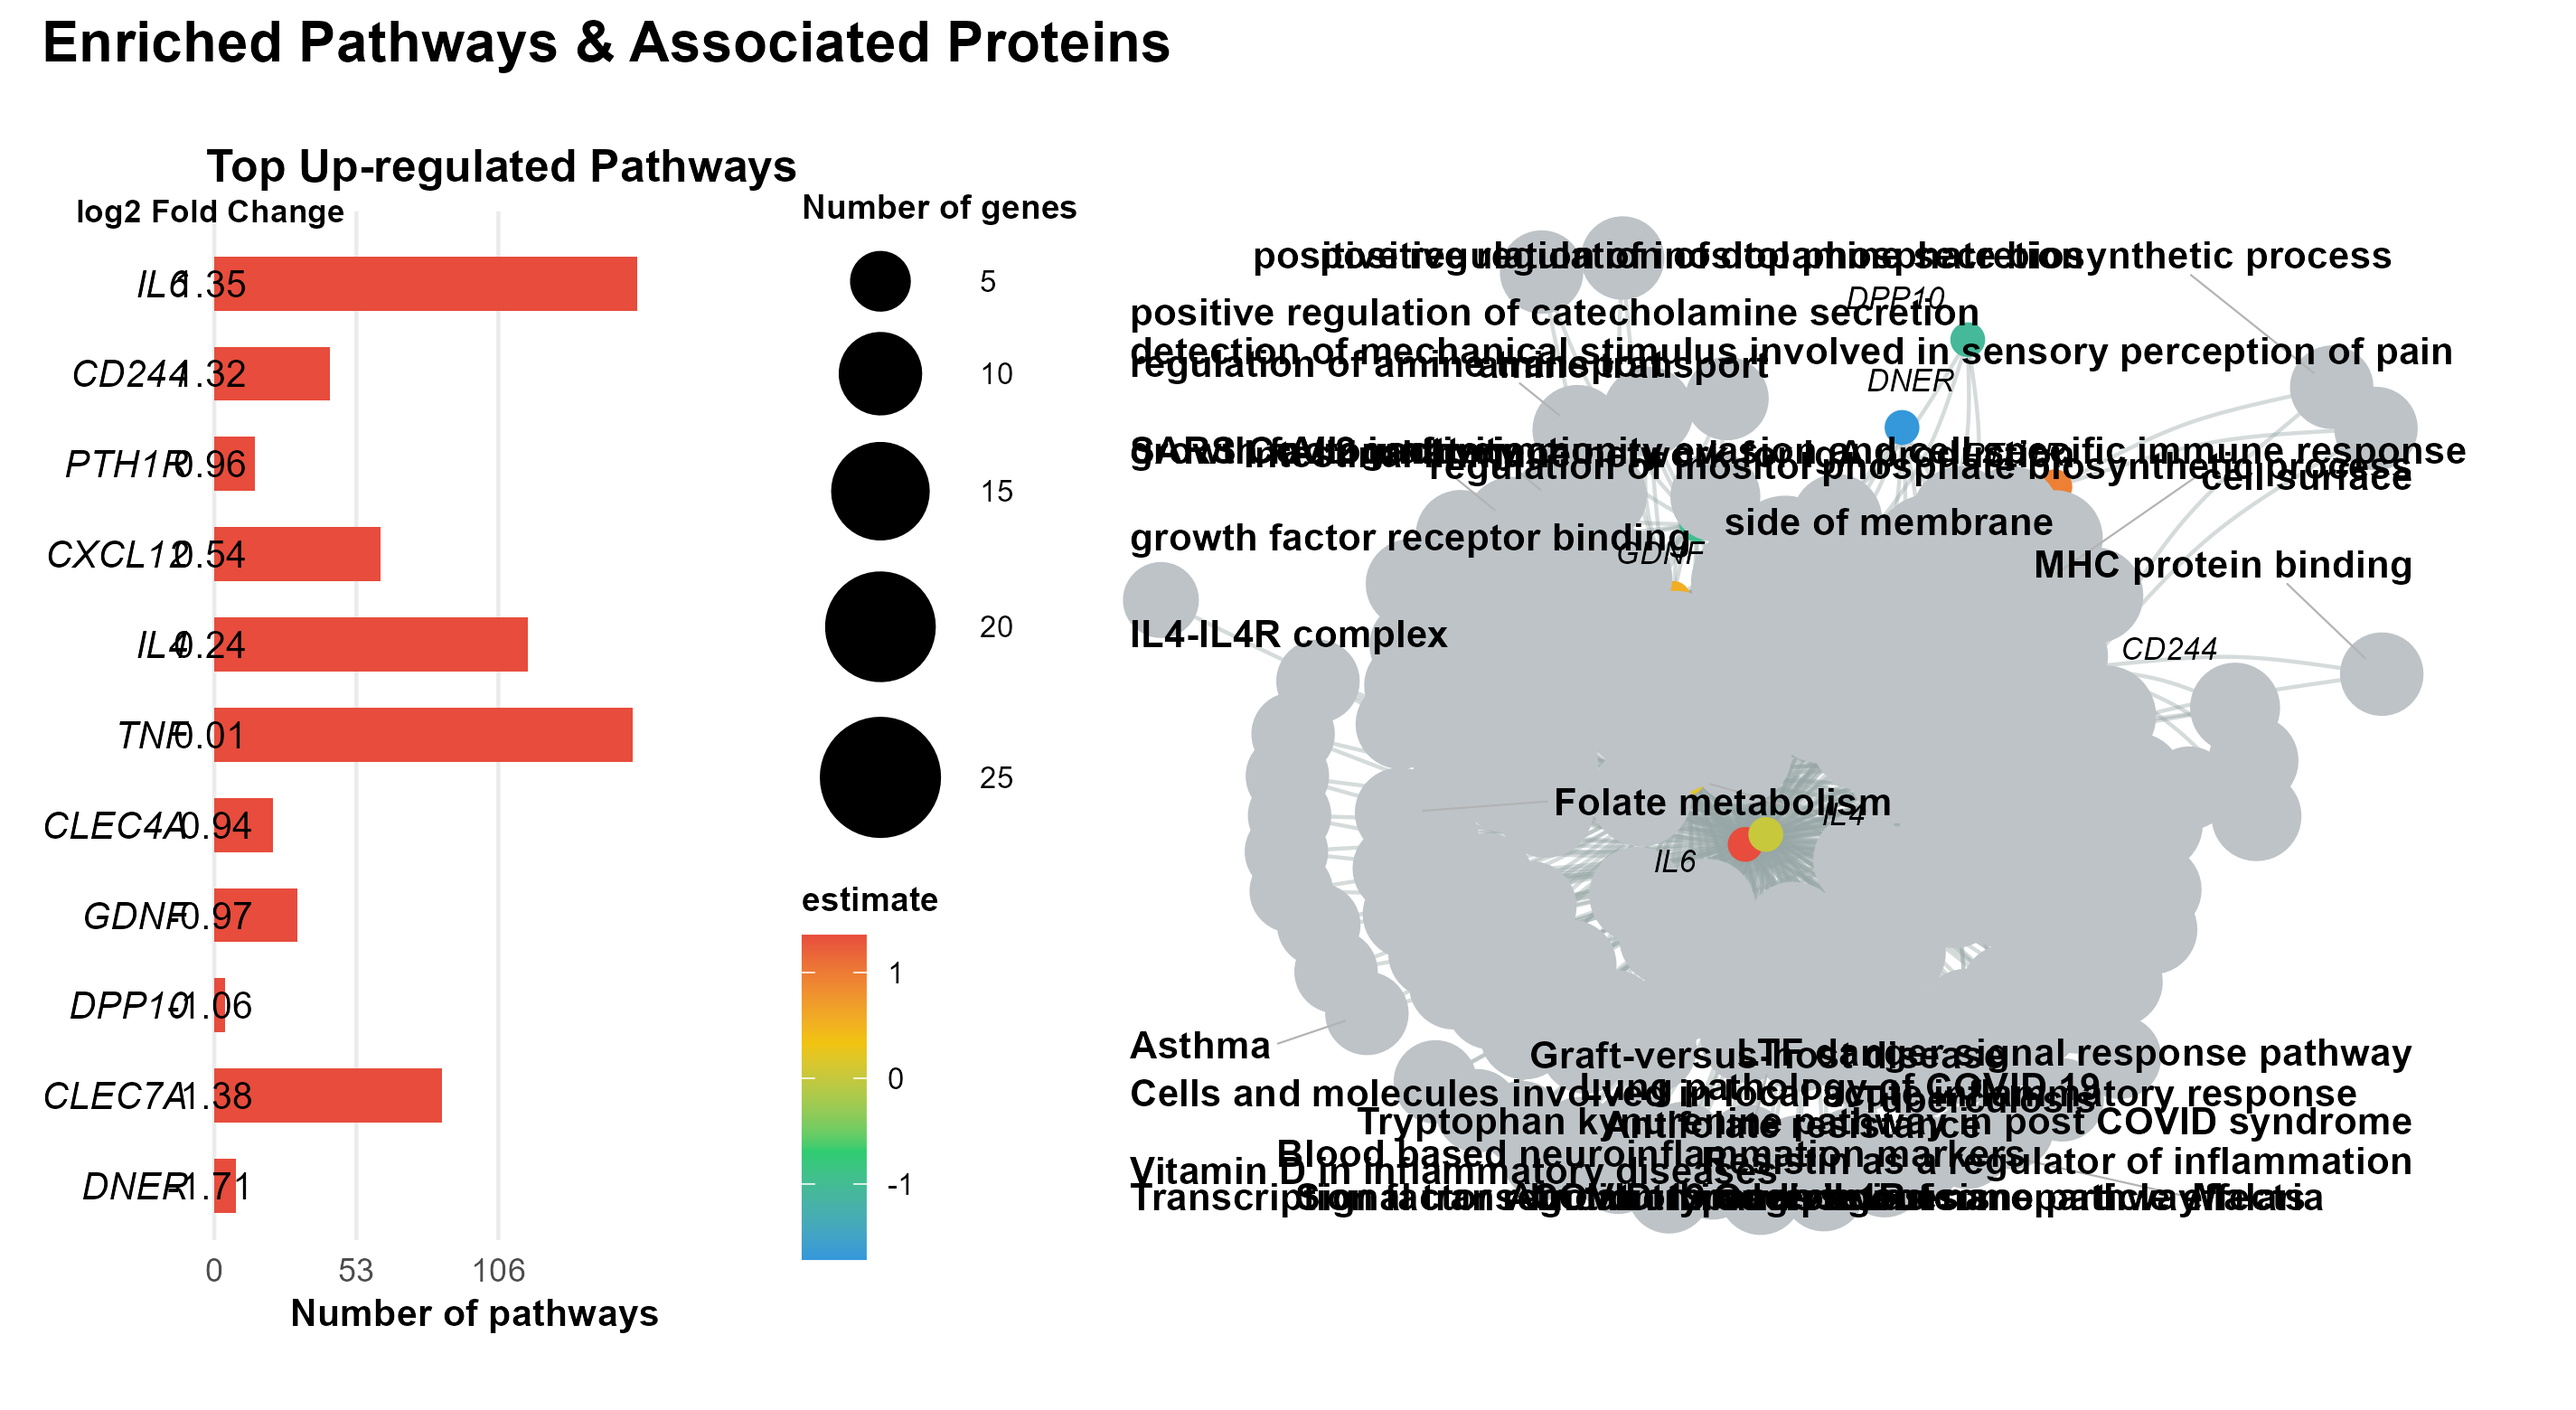
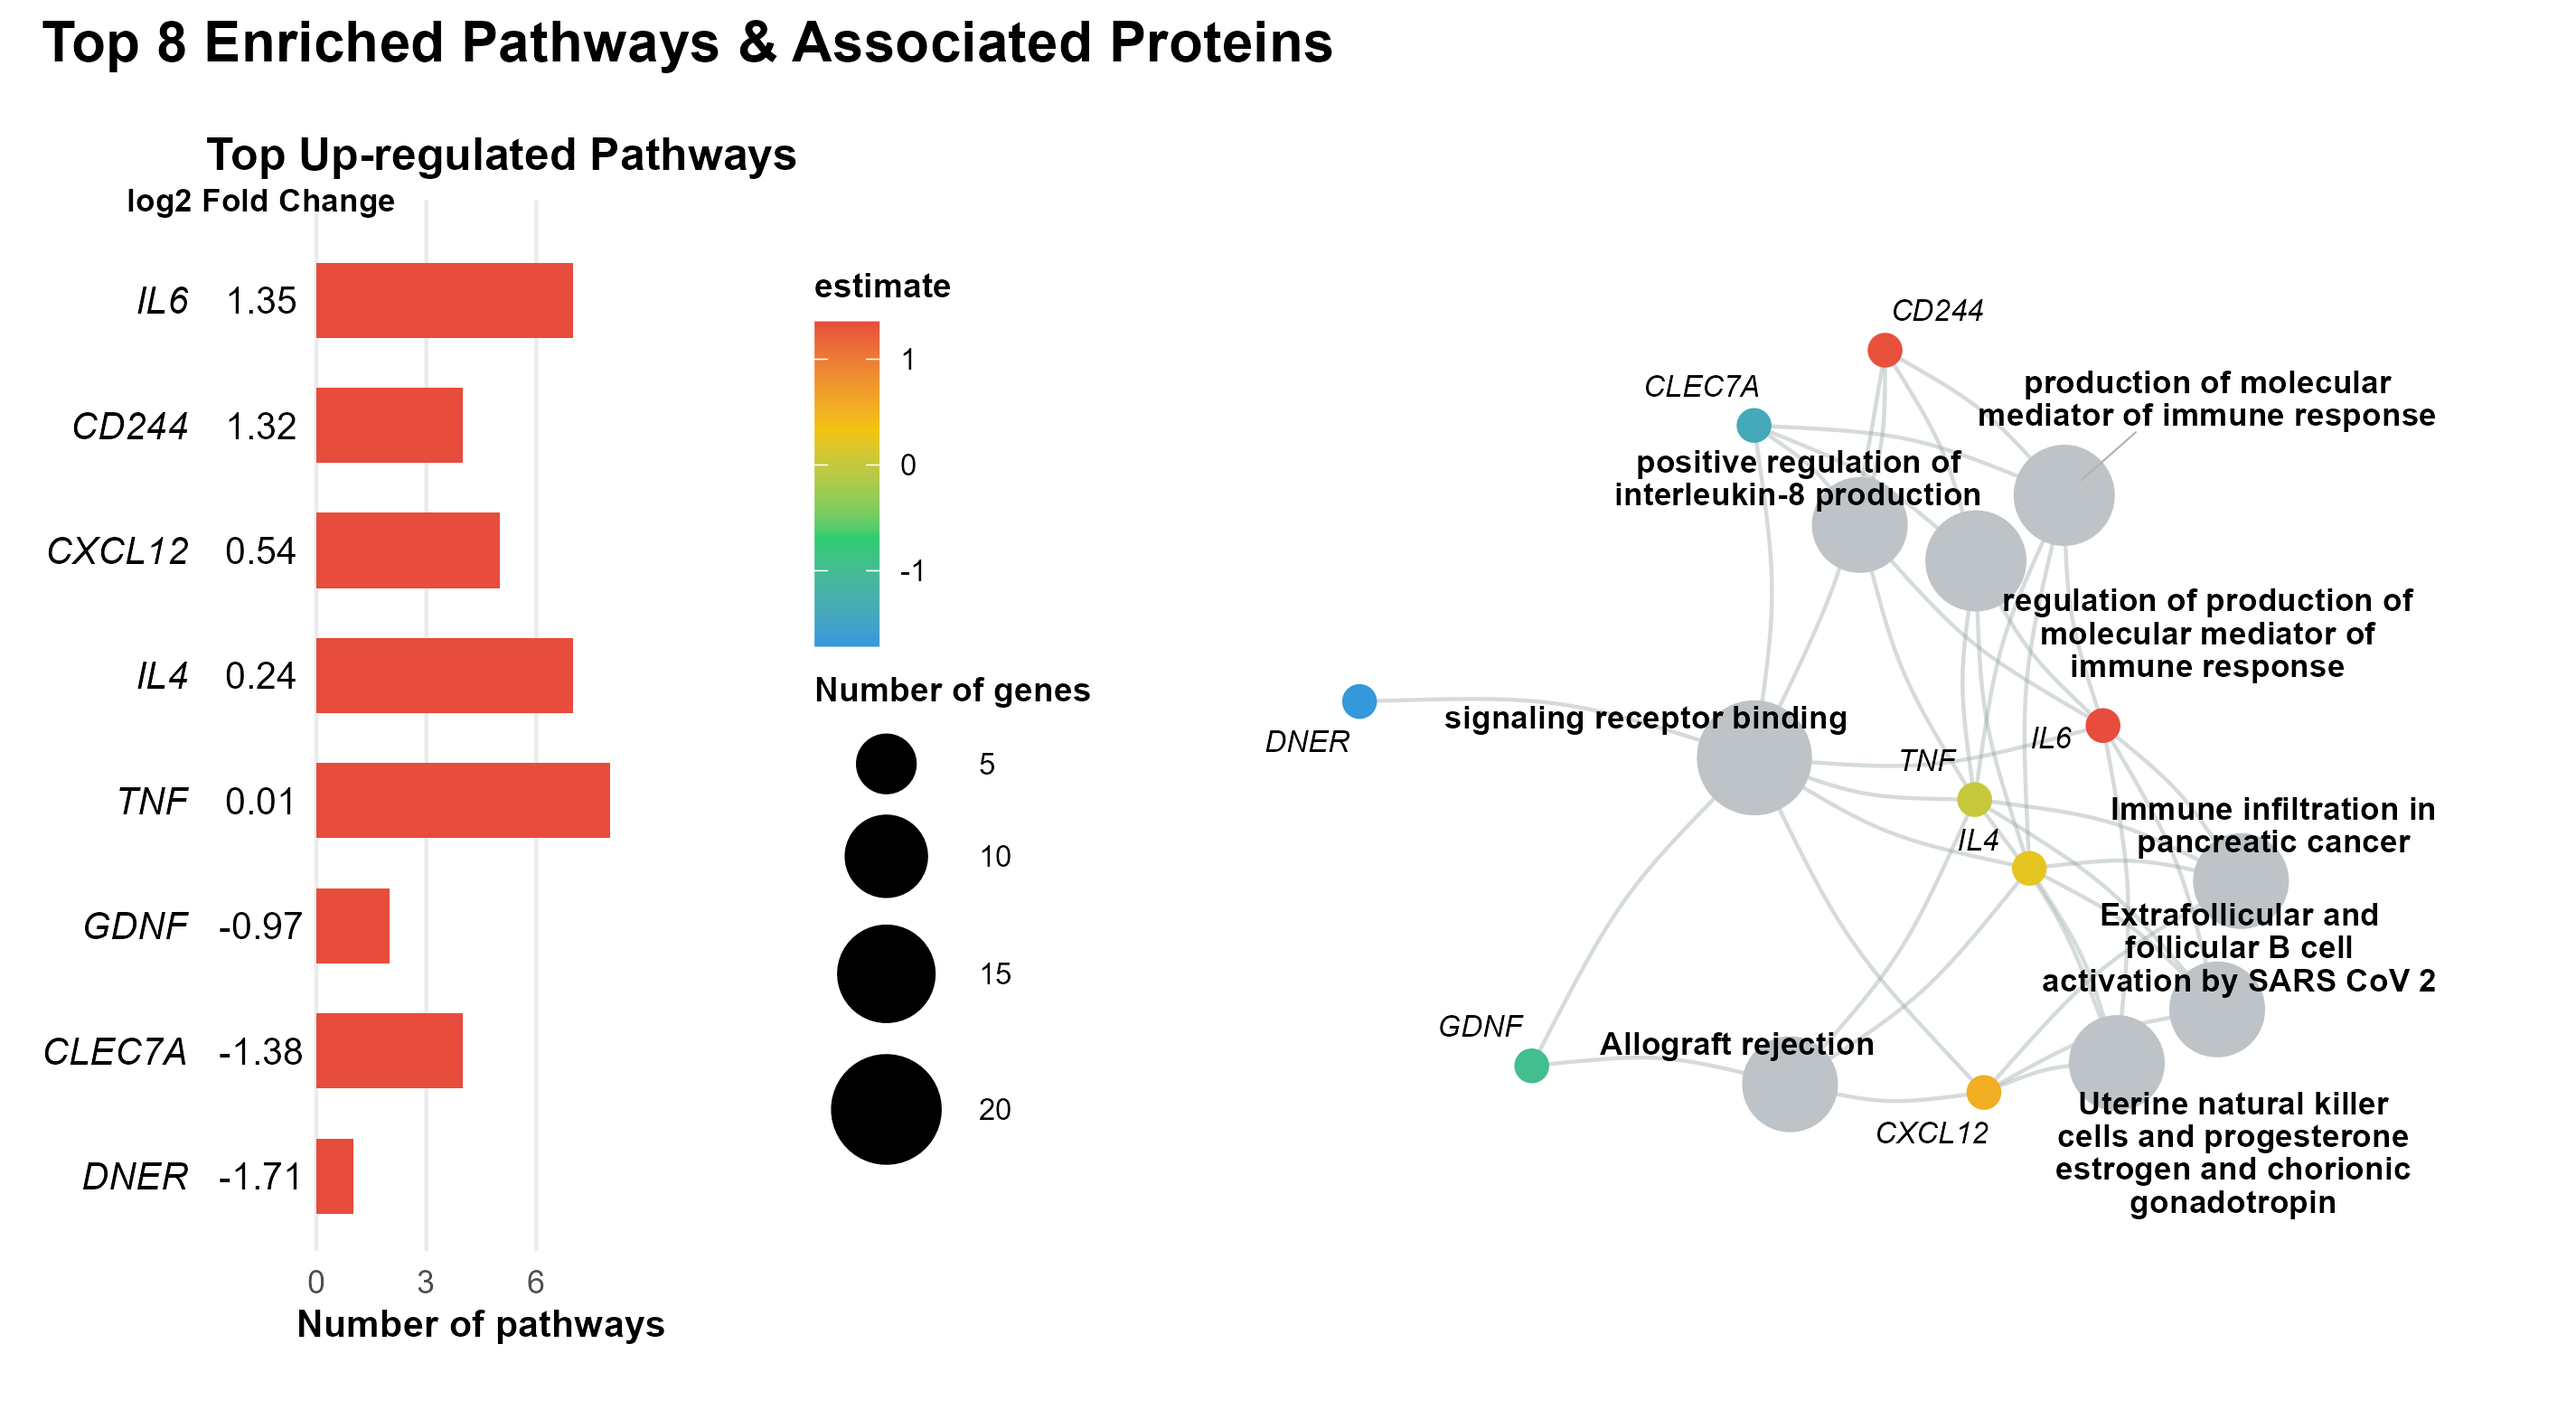
Fix pathway network label wrapping, left-axis spacing, and top-8 pathway filtering

diff --git a/articles/plots_using_simulated_data.html b/articles/plots_using_simulated_data.html
@@ -517,10 +517,12 @@ model specifications with subject random intercepts
 <span>    <span class="fu"><a href="https://rdrr.io/r/base/print.html" class="external-link">print</a></span><span class="op">(</span><span class="fu">DT</span><span class="fu">::</span><span class="fu"><a href="https://rdrr.io/pkg/DT/man/datatable.html" class="external-link">datatable</a></span><span class="op">(</span><span class="fu"><a href="https://rdrr.io/r/utils/head.html" class="external-link">head</a></span><span class="op">(</span><span class="va">enr_show</span>, <span class="fl">50</span><span class="op">)</span>, rownames <span class="op">=</span> <span class="cn">FALSE</span>,</span>
 <span>                        options <span class="op">=</span> <span class="fu"><a href="https://rdrr.io/r/base/list.html" class="external-link">list</a></span><span class="op">(</span>pageLength <span class="op">=</span> <span class="fl">5</span>, scrollX <span class="op">=</span> <span class="cn">TRUE</span><span class="op">)</span><span class="op">)</span><span class="op">)</span></span>
 <span>  <span class="op">}</span></span>
-<span>  <span class="va">enr_fc</span> <span class="op">&lt;-</span> <span class="fu"><a href="https://rdrr.io/r/base/merge.html" class="external-link">merge</a></span><span class="op">(</span><span class="va">enr</span>, <span class="fu"><a href="https://rdrr.io/r/base/as.data.frame.html" class="external-link">as.data.frame</a></span><span class="op">(</span><span class="va">de_probc</span><span class="op">[</span>, <span class="fu">.</span><span class="op">(</span>Protein <span class="op">=</span> <span class="va">Assay</span>, <span class="va">estimate</span><span class="op">)</span><span class="op">]</span><span class="op">)</span>,</span>
+<span>  <span class="va">top_pw</span> <span class="op">&lt;-</span> <span class="fu"><a href="https://rdrr.io/r/utils/head.html" class="external-link">head</a></span><span class="op">(</span><span class="fu"><a href="https://rdrr.io/r/base/unique.html" class="external-link">unique</a></span><span class="op">(</span><span class="va">enr</span><span class="op">[</span><span class="fu"><a href="https://rdrr.io/r/base/order.html" class="external-link">order</a></span><span class="op">(</span><span class="va">enr</span><span class="op">$</span><span class="va">p_value</span><span class="op">)</span>, <span class="st">"Pathway"</span><span class="op">]</span><span class="op">)</span>, <span class="fl">8</span><span class="op">)</span></span>
+<span>  <span class="va">enr_top</span> <span class="op">&lt;-</span> <span class="va">enr</span><span class="op">[</span><span class="va">enr</span><span class="op">$</span><span class="va">Pathway</span> <span class="op"><a href="https://rdrr.io/r/base/match.html" class="external-link">%in%</a></span> <span class="va">top_pw</span>, , drop <span class="op">=</span> <span class="cn">FALSE</span><span class="op">]</span></span>
+<span>  <span class="va">enr_fc</span> <span class="op">&lt;-</span> <span class="fu"><a href="https://rdrr.io/r/base/merge.html" class="external-link">merge</a></span><span class="op">(</span><span class="va">enr_top</span>, <span class="fu"><a href="https://rdrr.io/r/base/as.data.frame.html" class="external-link">as.data.frame</a></span><span class="op">(</span><span class="va">de_probc</span><span class="op">[</span>, <span class="fu">.</span><span class="op">(</span>Protein <span class="op">=</span> <span class="va">Assay</span>, <span class="va">estimate</span><span class="op">)</span><span class="op">]</span><span class="op">)</span>,</span>
 <span>                  by <span class="op">=</span> <span class="st">"Protein"</span>, all.x <span class="op">=</span> <span class="cn">TRUE</span><span class="op">)</span></span>
-<span>  <span class="fu"><a href="../reference/plot_pathway_network.html">plot_pathway_network</a></span><span class="op">(</span><span class="va">enr_fc</span>, value_col <span class="op">=</span> <span class="st">"estimate"</span>, top_n <span class="op">=</span> <span class="fl">12</span>,</span>
-<span>                       title <span class="op">=</span> <span class="st">"Enriched Pathways &amp; Associated Proteins"</span><span class="op">)</span></span>
+<span>  <span class="fu"><a href="../reference/plot_pathway_network.html">plot_pathway_network</a></span><span class="op">(</span><span class="va">enr_fc</span>, value_col <span class="op">=</span> <span class="st">"estimate"</span>, top_n <span class="op">=</span> <span class="fl">8</span>,</span>
+<span>                       title <span class="op">=</span> <span class="st">"Top 8 Enriched Pathways &amp; Associated Proteins"</span><span class="op">)</span></span>
 <span><span class="op">}</span></span></code></pre></div>
 <p><img src="plots_using_simulated_data_files/figure-html/pathway-enrichment-1.png" class="r-plt" alt="" width="100%"></p>
 <div class="sourceCode" id="cb28"><pre class="downlit sourceCode r">
